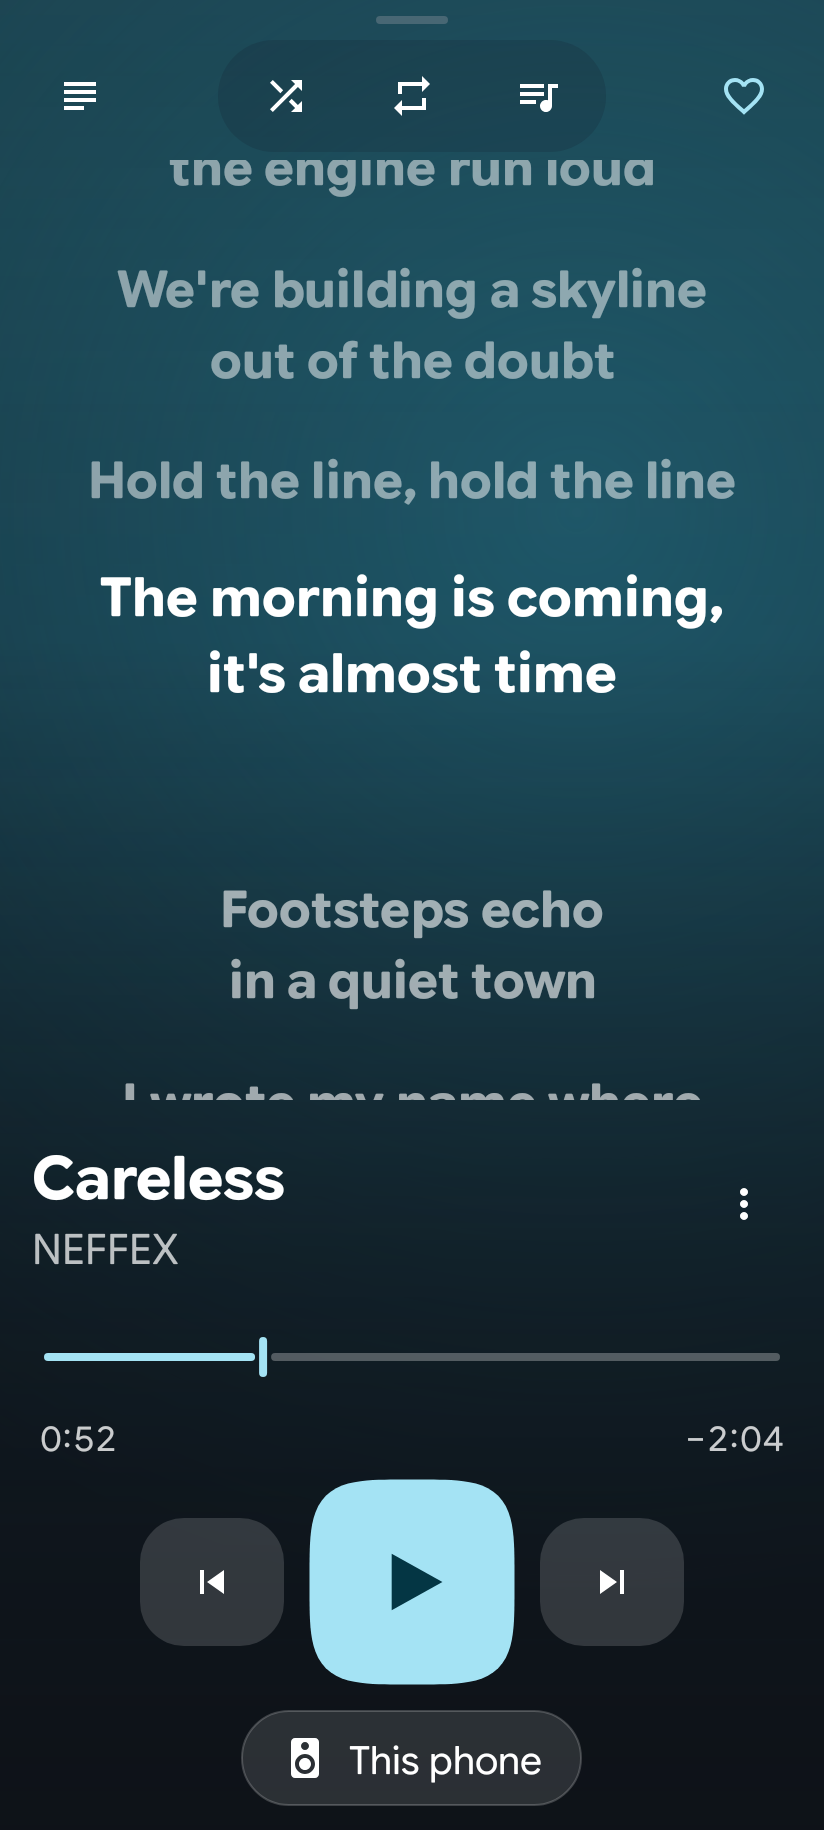
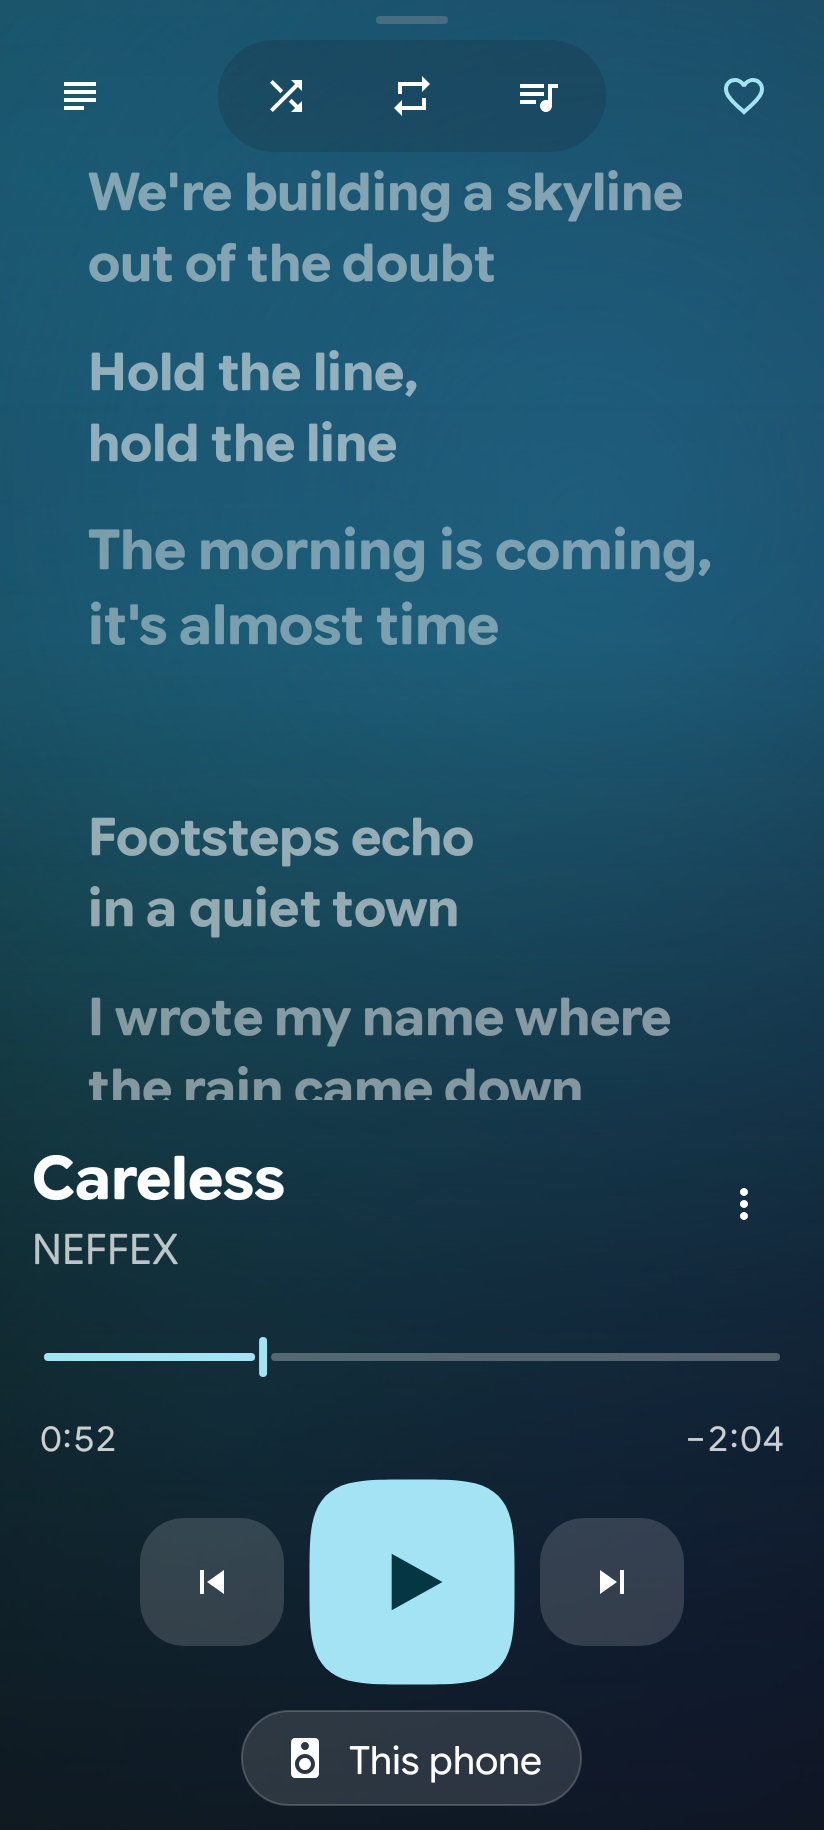
Lint: no BOM literal, drop redundant justification call; refreshed player renders with the new lyrics renderer
Claude-Session: https://claude.ai/code/session_01Vs9o5GYUVh6nkyc9RDeAP9

Changed region(s): [[0.0, 0.0, 0.9102, 0.623]]

diff --git a/app/src/main/java/com/mhrsdev/musicplayer/data/lyrics/JsonLyricsParser.java b/app/src/main/java/com/mhrsdev/musicplayer/data/lyrics/JsonLyricsParser.java
@@ -20,7 +20,7 @@ class JsonLyricsParser {
 
     static boolean looksLikeJson(String raw) {
         int i = 0;
-        while (i < raw.length() && (Character.isWhitespace(raw.charAt(i)) || raw.charAt(i) == '')) i++;
+        while (i < raw.length() && (Character.isWhitespace(raw.charAt(i)) || raw.charAt(i) == '\uFEFF')) i++;
         return i < raw.length() && (raw.charAt(i) == '{' || raw.startsWith("[{", i) || raw.startsWith("[ ", i)
                 || raw.startsWith("[\n", i) || raw.startsWith("[]", i));
     }
@@ -28,7 +28,7 @@ class JsonLyricsParser {
     @Nullable
     static List<LyricLine> parse(String raw) {
         try {
-            String s = raw.charAt(0) == '' ? raw.substring(1) : raw;
+            String s = raw.charAt(0) == '\uFEFF' ? raw.substring(1) : raw;
             Object root = new JSONTokener(s).nextValue();
             JSONArray arr = root instanceof JSONObject o ? o.optJSONArray("lines") : root instanceof JSONArray a ? a : null;
             if (arr == null) return null;

diff --git a/app/src/main/java/com/mhrsdev/musicplayer/ui/player/lyrics/LyricLineView.java b/app/src/main/java/com/mhrsdev/musicplayer/ui/player/lyrics/LyricLineView.java
@@ -175,6 +175,7 @@ public class LyricLineView extends View {
         setMeasuredDimension(w, h);
     }
 
+    @android.annotation.SuppressLint("WrongConstant") // Layout.BREAK_STRATEGY_* == LineBreaker values (API 23+)
     private void buildLayout(int width) {
         String text = line == null ? "" : line.text();
         paint.setTextSize(textPx);
@@ -184,7 +185,6 @@ public class LyricLineView extends View {
                 .setTextDirection(TextDirectionHeuristics.FIRSTSTRONG_LTR)
                 .setLineSpacing(0f, 1.08f)
                 .setIncludePad(false);
-        if (Build.VERSION.SDK_INT >= 26) b.setJustificationMode(Layout.JUSTIFICATION_MODE_NONE);
         b.setBreakStrategy(Layout.BREAK_STRATEGY_BALANCED);
         layout = b.build();
         layoutWidth = width;
